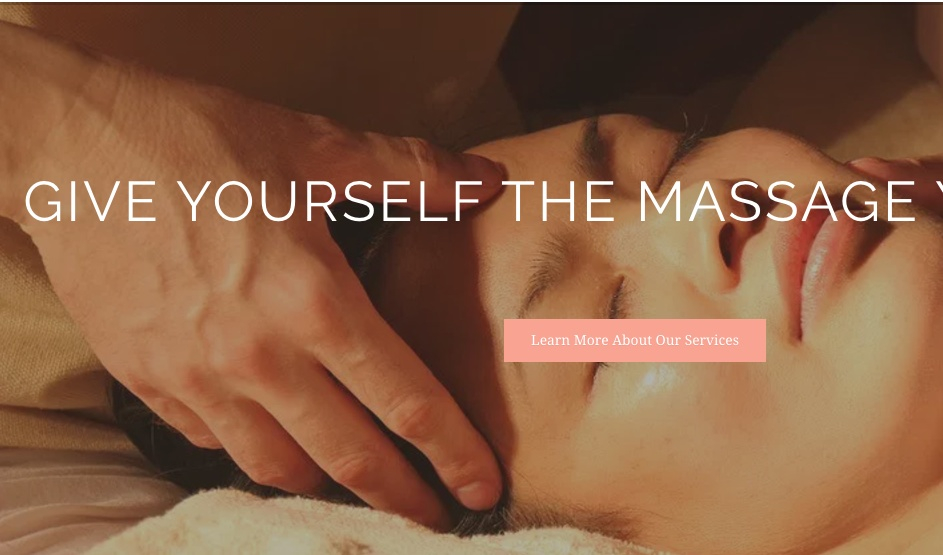
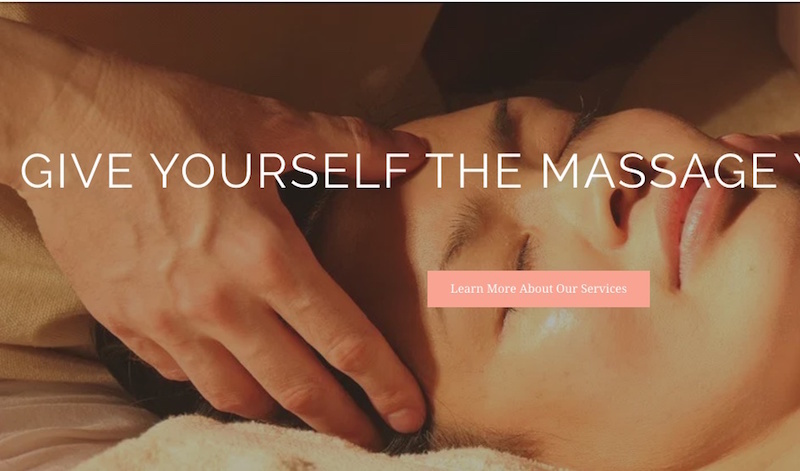
Added two web sites to my projects

diff --git a/portfolio.html b/portfolio.html
@@ -26,7 +26,7 @@
 				<div id = "skills" class= "col-lg-6 col-md-6 col-sm-6 col-xs-12">
 					<h3>Experience With:</h3>
 					<hr>
-					<p>Html, Css(Bootstrap), Javascript(jQuery), Git, Wordpress, Node.js, Express.js, MongoDB, Java, Visual Basic, Marketing, Branding, E-Commerce, Wordpress, Shopify, E-Commerce </p>
+					<p>Html, Css(Bootstrap), Javascript(jQuery), Java, PHP, Git, Wordpress, Node.js, Express.js, MongoDB, Java, Visual Basic, Marketing, Branding, E-Commerce, Wordpress, Shopify, E-Commerce </p>
 
 					<h3>Knowledge Of:</h3>
 					<hr>
@@ -39,29 +39,20 @@
 		<!-- Projects -->
 		<section id="projects">
 			<h1>Projects</h1>
-			
 			<div class="row">
-	
-				<a class="col-lg-6 col-md-6 col-sm-6 col-xs-12" href="https://codepen.io/lucasboy/details/mMGpYJ"><img class="zoom img-responsive" src="assets/img/todo.jpg" alt="Todo List Project"></a>
-				
-				<a class="col-lg-6 col-md-6 col-sm-6 col-xs-12" href="https://codepen.io/lucasboy/details/xLapBm"><img class="zoom 
+				<a class="col-lg-4 col-md-4 col-sm-6 col-xs-12 " href="http://bodyandsoulmasso.com"><img class="zoom img-responsive" src="assets/img/bnsWP.jpg" alt="WP Site for local massage parlor"></a>
+				<a class="col-lg-4 col-md-4 col-sm-6 col-xs-12 " href="https://animalinashell.github.io/Mock-Development-Agency/"><img class="zoom img-responsive" src="assets/img/velocity.jpg" alt="Mock web design agency"></a>
+				<a class="col-lg-4 col-md-4 col-sm-6 col-xs-12" href="https://codepen.io/lucasboy/details/mMGpYJ"><img class="zoom img-responsive" src="assets/img/todo.jpg" alt="Todo List Project"></a>
+				<a class="col-lg-4 col-md-4 col-sm-6 col-xs-12" href="https://codepen.io/lucasboy/details/xLapBm"><img class="zoom 
 				img-responsive" src="assets/img/color.jpg" alt="Color Game"></a>
-
+				<a class="col-lg-4 col-md-4 col-sm-6 col-xs-12 " href="https://codepen.io/lucasboy/details/YxEmwE"><img class="zoom img-responsive" src="assets/img/weather.jpg" alt="Weather App"></a>
+				<a class="col-lg-4 col-md-4 col-sm-6 col-xs-12 " href="https://codepen.io/lucasboy/details/QMqapb"><img class="zoom img-responsive" src="assets/img/quote.jpg" alt=" Random Quote Machine"></a>
 			</div>
-			<div class="row">
-
-				<a class="col-lg-6 col-md-6 col-sm-6 col-xs-12 " href="https://codepen.io/lucasboy/details/YxEmwE"><img class="zoom img-responsive" src="assets/img/weather.jpg" alt="Weather App"></a>
-
-				<a class="col-lg-6 col-md-6 col-sm-6 col-xs-12 " href="https://codepen.io/lucasboy/details/QMqapb"><img class="zoom img-responsive" src="assets/img/quote.jpg" alt=" Random Quote Machine"></a>
-				
-			</div>
-
 		</section>
-
 
 	<!-- Footer -->
 	<div class="container">
-			<div class="row">
+		<div class="row">
 			<footer>
 				<div id = "info" class="col-lg-6 col-md-6 col-sm-6 col-xs-12">
 					<a href="tel:12163578651"><h4><i class="fa fa-phone" aria-hidden="true"></i> (216)-357-8651</h4></a>
@@ -73,18 +64,16 @@
 					<a href="https://www.linkedin.com/in/jeffrey-munoz-107336b4/"><i class="fa fa-linkedin" aria-hidden="true"></i></a>
 					<a href="https://codepen.io/lucasboy/"><i class="fa fa-codepen" aria-hidden="true"></i></a>
 				</div>
-					<div id = "copyright" class="container">
-						<div class="row">
-							<div class="col-lg-12 col-md-12  col-sm-12">
-								<p>By<span> Manny Munoz </span>&copy2017</p>
-							</div>
-							
+				<div id = "copyright" class="container">
+					<div class="row">
+						<div class="col-lg-12 col-md-12  col-sm-12">
+							<p>By<span> Manny Munoz </span>&copy2017</p>
 						</div>
-					</div>
 						
-					
+					</div>
+				</div>
 			</footer>
-			</div>
+		</div>
 	</div>
 
 	<script src="https://unpkg.com/scrollreveal/dist/scrollreveal.min.js"></script>

diff --git a/assets/css/portfolio.css b/assets/css/portfolio.css
@@ -1,22 +1,3 @@
-@media only screen and (max-width: 767px) {
-	#me {
-		margin-left: 33%
-	}
-	
-}
-
-@media only screen and (min-width: 650px) {
-	h1 {
-		padding-top: 50px;
-	}
-}
-
-@media only screen and (min-width: 751px) {
-	footer {
-		padding-top: 3em;
-
-	}
-}
 
 body {
 	font-family: 'Raleway', sans-serif !important;
@@ -26,7 +7,8 @@ body {
 	margin:0;
 	padding: 0;
 }
-#me {
+/* experience/portrait */
+section #me {
 	display: block;
 	width: 35%;
 	height: 35%;
@@ -38,7 +20,7 @@ body {
 h1 {
     position:relative;
     display:inline-block;
-   	margin: 50px auto;
+   	margin: 40px auto;
 
 }
 h1:after {
@@ -52,50 +34,19 @@ h1:after {
     background:#fff;
 
 }
-.zoom:hover {
-	border: 4px solid mediumvioletred;
-}
-#skills {
+
+section.about #skills {
 	padding-top: 35px;
 }
 
-a img {
-	margin: 5% auto;
-	border-radius: 9%;
+#projects a img {
+	margin-bottom: 2em;
+	border-radius: 6%;
+	height: 16em;
+	width: 100%;
 } 
 
-/*Contact form css*/
-input[type=text], select, textarea {
-    width: 100%; /* Full width */
-    padding: 12px; /* Some padding */  
-    border: 1px solid #ccc; /* Gray border */
-    border-radius: 4px; /* Rounded borders */
-    box-sizing: border-box; /* Make sure that padding and width stays in place */
-    margin-top: 6px; /* Add a top margin */
-    margin-bottom: 16px; /* Bottom margin */
-    resize: vertical /* Allow the user to vertically resize the textarea (not horizontally) */
-}
-
-/* Style the submit button with a specific background color etc */
-input[type=submit] {
-    background-color: #4CAF50;
-    color: white;
-    padding: 12px 20px;
-    border: none;
-    border-radius: 4px;
-    cursor: pointer;
-}
-
-/* When moving the mouse over the submit button, add a darker green color */
-input[type=submit]:hover {
-    background-color: #45a049;
-}
-
-form {
-	margin-bottom: 40px;
-}
-
-
+/* footer */
 footer {
 	
 	margin-top: 2em;
@@ -115,11 +66,35 @@ footer {
 
 }
 
-#social {
+#social a {
 	font-size: 40px;
 	letter-spacing: 5px;
 	
 }
 p span {
 	color: #cd1d67;
+}
+
+
+/* Media queries*/
+
+@media only screen and (max-width: 768px) {
+	#me {
+		margin-left: 33%
+	}
+	#projects a img {
+		width: 70%;
+		margin: 15px auto;
+	}
+
+	
+}
+
+@media only screen and (min-width: 768px) {
+	footer {
+		padding-top: 3em;
+	}
+	h1 {
+		padding-top: 50px;
+	}
 }
